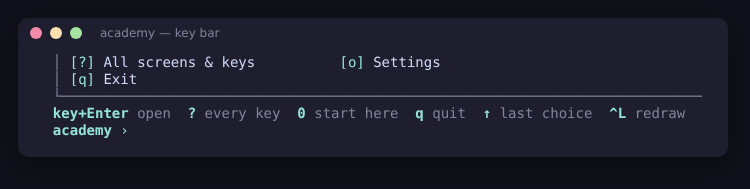
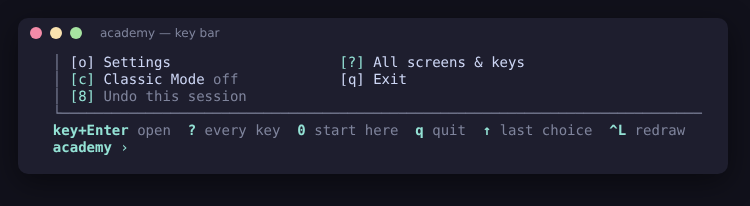
Show everything on the home screen; remove Tidy screen
The home screen now opens with the full dashboard and every screen, as
the detailed home did. The short home stays available as Settings ->
Home screen: simple (Settings.SimpleHome; the old detailed_home value is
no longer read, so everyone starts with the full view).

Tidy screen is gone: the t key, its menu item, its setting and the
screen clear before each action. Old progress files that still carry
tidy_screen load as before (unknown fields are ignored).

README, CHANGELOG (Unreleased) and the menu, settings and key-bar
screenshots are updated.

Claude-Session: https://claude.ai/code/session_01PeHC9mGDMKHVeqdMKqCduv

diff --git a/academy/app.go b/academy/app.go
@@ -277,15 +277,11 @@ func (a *App) reviewLabel(short bool) string {
 // "All screens & keys" page of the simple home.
 func (a *App) allScreens() []menuGroup {
 	a.mu.Lock()
-	classic, tidy := a.reg.ClassicMode, a.reg.TidyScreen
+	classic := a.reg.ClassicMode
 	a.mu.Unlock()
 	mode := sty.Gray("off")
 	if classic {
 		mode = sty.Bold(sty.Yellow("ON"))
-	}
-	tidyMode := sty.Gray("off")
-	if tidy {
-		tidyMode = sty.Bold(sty.Green("on"))
 	}
 	item, hint := menuItem, menuHint
 	return []menuGroup{
@@ -323,7 +319,6 @@ func (a *App) allScreens() []menuGroup {
 			{item("o", "Settings"), hint("theme, symbols, home screen"), "Settings"},
 			{item("?", "All screens & keys"), "", "All keys"},
 			{item("c", "Classic Mode "+mode), "", "Classic " + stripANSI(mode)},
-			{item("t", "Tidy screen "+tidyMode), "", "Tidy " + stripANSI(tidyMode)},
 			{item("q", "Exit"), hint("progress saves itself; 5 works too"), "Exit"},
 			{item("8", sty.Gray("Undo this session")), "", "Undo session"},
 		}},
@@ -361,19 +356,20 @@ func (a *App) simpleMenu() []menuGroup {
 	}
 }
 
-// printMenu draws the home screen: simple by default, detailed when the
-// learner chose it in Settings.
+// printMenu draws the home screen: everything by default (the full
+// dashboard and every screen), or the short home if the learner chose it
+// in Settings.
 func (a *App) printMenu() {
 	a.mu.Lock()
-	detailed := a.reg.Settings.DetailedHome
+	simple := a.reg.Settings.SimpleHome
 	a.mu.Unlock()
-	if detailed {
-		a.printDashboard()
-		a.renderMenu("MAIN MENU", a.allScreens())
+	if simple {
+		a.printHome()
+		a.renderMenu("MENU", a.simpleMenu())
 		return
 	}
-	a.printHome()
-	a.renderMenu("MENU", a.simpleMenu())
+	a.printDashboard()
+	a.renderMenu("MAIN MENU", a.allScreens())
 }
 
 // printHome is the simple dashboard: three numbers, where you are, and
@@ -1168,15 +1164,6 @@ func (a *App) run() {
 		a.con.setOnClear(a.printMenu) // Ctrl+L and resizes redraw the menu on a clean screen
 		choice, err := a.con.readLineKeys(sty.Bold(sty.Cyan("  academy"))+sty.Cyan(" › "), menuBar)
 		a.con.setOnClear(nil)
-
-		// Tidy screen: each chosen action starts on a clean screen, and its
-		// output (including its final message) stays visible above the menu.
-		a.mu.Lock()
-		tidy := a.reg.TidyScreen
-		a.mu.Unlock()
-		if tidy && a.con.screen && choice != "" {
-			fmt.Fprint(a.con.out, clearSeq)
-		}
 		if err != nil {
 			a.con.note("Input closed — saving.")
 			a.commitAndExit()
@@ -1193,16 +1180,6 @@ func (a *App) run() {
 		case "clear", "cls":
 			if a.con.screen {
 				fmt.Fprint(a.con.out, clearSeq)
-			}
-		case "t":
-			a.mutate(func(r *Registry) { r.TidyScreen = !r.TidyScreen })
-			a.mu.Lock()
-			on := a.reg.TidyScreen
-			a.mu.Unlock()
-			if on {
-				a.con.ok("Tidy screen on: every action now starts on a clean screen. Press t again to turn it off.")
-			} else {
-				a.con.ok("Tidy screen off: earlier output stays visible above the menu.")
 			}
 		case "?", "h", "help":
 			a.pagedHome(a.showShortcuts)

diff --git a/academy/home_test.go b/academy/home_test.go
@@ -15,37 +15,45 @@ func renderHome(t *testing.T, r *Registry, cols int) string {
 	return stripANSI(out.String())
 }
 
-// The simple home shows three numbers, where you are and a short menu;
-// the guide stays in sight for new learners; Settings brings back the
-// detailed dashboard and every menu item.
+// The home screen shows everything by default: the full dashboard and
+// every screen. Settings offers the simple home, which shows three
+// numbers, where you are and a short menu, with the guide in sight for
+// new learners.
 func TestHomeScreens(t *testing.T) {
-	newbie := renderHome(t, seedRegistry(), 80)
+	for _, r := range []*Registry{seedRegistry(), demoRegistry(time.Now())} {
+		home := renderHome(t, r, 80)
+		for _, want := range []string{"MAIN MENU", "[0] Start Here", "[w] Tech watch", "[8] Undo this session", "[q] Exit", "Campus"} {
+			if !strings.Contains(home, want) {
+				t.Errorf("the default home lacks %q:\n%s", want, home)
+			}
+		}
+		if strings.Contains(home, "Tidy") || strings.Contains(home, "[t]") {
+			t.Errorf("Tidy screen is gone, but the home still offers it:\n%s", home)
+		}
+	}
+
+	newbie := seedRegistry()
+	newbie.Settings.SimpleHome = true
+	simpleNew := renderHome(t, newbie, 80)
 	for _, want := range []string{"No streak yet", "Today 0 min", "Nothing due", "[j] Today's workout", "[0] Start Here", "[?] All screens & keys", "[q] Exit"} {
-		if !strings.Contains(newbie, want) {
-			t.Errorf("simple home for a new learner lacks %q:\n%s", want, newbie)
+		if !strings.Contains(simpleNew, want) {
+			t.Errorf("simple home for a new learner lacks %q:\n%s", want, simpleNew)
 		}
 	}
 	for _, hidden := range []string{"[w]", "[2]", "[8]", "Labs", "MAIN MENU"} {
-		if strings.Contains(newbie, hidden) {
+		if strings.Contains(simpleNew, hidden) {
 			t.Errorf("simple home shows %q, which belongs to All screens", hidden)
 		}
 	}
 
 	learner := demoRegistry(time.Now())
+	learner.Settings.SimpleHome = true
 	simple := renderHome(t, learner, 80)
 	if strings.Contains(simple, "[0] Start Here") {
 		t.Error("Start Here leaves the short menu once a few concepts are understood")
 	}
 	if !strings.Contains(simple, "cards due") || !strings.Contains(simple, "Now Stage") {
 		t.Errorf("simple home lacks the due count or the current stage:\n%s", simple)
-	}
-
-	learner.Settings.DetailedHome = true
-	detailed := renderHome(t, learner, 80)
-	for _, want := range []string{"MAIN MENU", "[w] Tech watch", "[8] Undo this session", "Campus"} {
-		if !strings.Contains(detailed, want) {
-			t.Errorf("detailed home lacks %q", want)
-		}
 	}
 
 	for _, cols := range []int{minWidth, 60, maxWidth} {

diff --git a/academy/settings.go b/academy/settings.go
@@ -85,7 +85,7 @@ func (a *App) settingsScreen() error {
 	for {
 		a.mu.Lock()
 		st := a.reg.Settings
-		classic, tidy := a.reg.ClassicMode, a.reg.TidyScreen
+		classic := a.reg.ClassicMode
 		a.mu.Unlock()
 		onOff := func(b bool) string {
 			if b {
@@ -99,9 +99,9 @@ func (a *App) settingsScreen() error {
 				themeName = t.Name
 			}
 		}
-		homeName := "simple"
-		if st.DetailedHome {
-			homeName = "detailed"
+		homeName := "everything"
+		if st.SimpleHome {
+			homeName = "simple"
 		}
 		symbols := "emoji 💡"
 		if st.PlainSymbols {
@@ -113,12 +113,11 @@ func (a *App) settingsScreen() error {
 			"Symbols: " + sty.Bold(symbols) + sty.Gray(" · plain if emoji look broken"),
 			"Ask how sure I am before review answers: " + onOff(!st.NoConfidence),
 			"Classic Mode: " + onOff(classic) + sty.Gray(" · struggle clock, notebook, type-ins"),
-			"Tidy screen: " + onOff(tidy) + sty.Gray(" · each action on a clean screen"),
-			"Home screen: " + sty.Bold(homeName) + sty.Gray(" · simple shows the daily essentials, detailed every menu item"),
+			"Home screen: " + sty.Bold(homeName) + sty.Gray(" · or simple: the daily essentials only"),
 			"Key bar: " + onOff(!st.HideKeyBar) + sty.Gray(" · the keys to use, above each prompt"),
 			"Back",
 		})
-		if err != nil || choice == 7 {
+		if err != nil || choice == 6 {
 			if err == errCancel {
 				return nil
 			}
@@ -141,12 +140,9 @@ func (a *App) settingsScreen() error {
 				return err
 			}
 		case 4:
-			a.mutate(func(r *Registry) { r.TidyScreen = !r.TidyScreen })
-			a.con.ok("Saved.")
-		case 5:
-			a.mutate(func(r *Registry) { r.Settings.DetailedHome = !r.Settings.DetailedHome })
+			a.mutate(func(r *Registry) { r.Settings.SimpleHome = !r.Settings.SimpleHome })
 			a.con.ok("Home screen changed. Every key works either way; ? lists them all.")
-		case 6:
+		case 5:
 			a.mutate(func(r *Registry) { r.Settings.HideKeyBar = !r.Settings.HideKeyBar })
 			a.applySettings()
 			a.con.ok("Saved. Every key still works, and ? lists them all.")

diff --git a/academy/main.go b/academy/main.go
@@ -252,7 +252,6 @@ type Registry struct {
 	Tracks        []Track               `json:"tracks"`
 	Reviews       map[string]ReviewCard `json:"reviews"`        // card ID → spaced-repetition state
 	ReviewHistory map[string]int        `json:"review_history"` // local date → cards reviewed that day
-	TidyScreen    bool                  `json:"tidy_screen"`    // start each action on a clean screen
 	StudySessions []StudySession        `json:"study_sessions"` // focus-timer sessions
 	Goals         Goals                 `json:"goals"`          // weekly targets (zero: none)
 	Achievements  map[string]time.Time  `json:"achievements"`   // achievement ID → when earned
@@ -524,7 +523,6 @@ func seedRegistry() *Registry {
 
 	return &Registry{
 		SchemaVersion:  schemaVersion,
-		TidyScreen:     true, // each action starts on a clean screen, so the scrollback stays readable
 		NextLabID:      1,
 		Reviews:        map[string]ReviewCard{},
 		ReviewHistory:  map[string]int{},

diff --git a/academy/save_test.go b/academy/save_test.go
@@ -32,13 +32,13 @@ func TestAutosaveBackupOncePerSessionAndUndo(t *testing.T) {
 		t.Fatalf("an unchanged session must not make a backup, got %d", len(backups))
 	}
 	for i := 0; i < 5; i++ {
-		a.mutate(func(r *Registry) { r.TidyScreen = !r.TidyScreen })
+		a.mutate(func(r *Registry) { r.Settings.NoConfidence = !r.Settings.NoConfidence })
 		a.autosave()
 		saved, _, err := loadRegistry(path)
 		if err != nil {
 			t.Fatal(err)
 		}
-		if saved.TidyScreen != a.reg.TidyScreen {
+		if saved.Settings.NoConfidence != a.reg.Settings.NoConfidence {
 			t.Fatalf("save %d: the change is not on disk", i)
 		}
 	}

diff --git a/academy/thinking.go b/academy/thinking.go
@@ -388,7 +388,7 @@ type Settings struct {
 	Theme        string `json:"theme,omitempty"`
 	PlainSymbols bool   `json:"plain_symbols,omitempty"` // replace emoji with plain characters
 	NoConfidence bool   `json:"no_confidence,omitempty"` // skip "how sure are you?" in reviews
-	DetailedHome bool   `json:"detailed_home,omitempty"` // the full dashboard and menu instead of the simple home
+	SimpleHome   bool   `json:"simple_home,omitempty"`   // the short home screen instead of the full dashboard and menu
 	HideKeyBar   bool   `json:"hide_key_bar,omitempty"`  // no key bar above prompts
 }
 

diff --git a/academy/tools/screenshots.py b/academy/tools/screenshots.py
@@ -37,7 +37,7 @@ def find_chrome():
 # name: (columns, keys to type, first line regex, last line regex or None,
 #        max lines[, which key's output to start from: -1 = the last])
 SHOTS = {
-    "menu": (80, [], r"Today [0-9]+ min", r"└─", 40),
+    "menu": (80, [], r"Study [0-9.]+ h", r"└─", 45),
     "stages": (80, ["6"], r"STUDY HALL", r"\[20\]", 40),
     "concept-card": (80, ["6", "1", "1", "5"], r"┏━", r"◆ Mental model", 70),
     "under-the-hood": (80, ["6", "1", "1", "6"], r"🔧 Under the hood", r"◆ Mental model", 30),

diff --git a/academy/README.md b/academy/README.md
@@ -503,11 +503,11 @@ The career center is woven into the rest of the academy:
 
 ## Menu
 
-**The home screen is simple by default.** It shows three numbers (your streak, today's study minutes, and the cards due), the stage you are working on, one call to action (today's workout, then your best next step) and a short menu of the things you do most days:
+**The home screen shows everything.** The full dashboard comes first: your streak, study hours, labs, stages, books read, concepts, exercises, mastery, campus progress, the 14-day activity line, weekly goals and the word of the day. Under it is every screen, grouped into the sections below:
 
 ![Home screen](docs/menu.png)
 
-**`?` shows every screen**, grouped into the four sections below, followed by every key; type any key on that page to go straight there. Every key works from the home screen too, whether or not it is listed. If you prefer to see everything at once, **Settings** (`o`) → *Home screen: detailed* brings back the full dashboard (study hours, labs, stages, books read, concepts, exercises, mastery, campus progress, the 14-day activity line, weekly goals and the word of the day) and the full menu. Those numbers are always in the Progress report (`p`), under *At a glance*.
+**`?` shows every screen** too, followed by every key; type any key on that page to go straight there. Every key works from the home screen. If you prefer a shorter start, **Settings** (`o`) → *Home screen: simple* shows only three numbers (your streak, today's study minutes and the cards due), the stage you are working on, one call to action (today's workout, then your best next step) and a short menu of the things you do most days. The full numbers are always in the Progress report (`p`), under *At a glance*.
 
 Keys never change, whatever the layout: wide terminals show two or three columns with hints, and narrow ones show two compact columns.
 
@@ -552,11 +552,10 @@ Keys never change, whatever the layout: wide terminals show two or three columns
 
 | Key | Action |
 |---|--------|
-| o | **Settings**: colour theme (default, high contrast, colour-blind friendly, monochrome), plain symbols instead of emoji, confidence ratings, Classic Mode, tidy screen, simple or detailed home screen |
+| o | **Settings**: colour theme (default, high contrast, colour-blind friendly, monochrome), plain symbols instead of emoji, confidence ratings, Classic Mode, the key bar, full or simple home screen |
 | q | **Exit** (also `5`, `quit` or `exit`). Your progress is saved automatically after every action, so closing the window is fine too |
 | 8 | **Undo this session**: puts your progress back exactly as it was when you opened the academy, then exits (asks first) |
 | c | **Classic Mode** on/off: struggle clock, lab notebook, classic corners and type-ins |
-| t | **Tidy screen** on/off: every action starts on a clean screen, so the scrollback stays readable (on by default for new learners) |
 | ? | **All screens & keys** (also `h` or `help`): every screen, grouped, then every key; type a key on that page to go there · `clear` / `cls` clears the screen |
 
 Above the menu, a dashboard shows hours, labs, stages, texts, concepts, exercises, **mastered concepts** and **cards due for review**, plus mastery-weighted campus progress, a 14-day activity sparkline, and a study streak (logged hours, focus sessions and review days all count). If you have set weekly goals, a **This week** line tracks them. Below it, a **➜ Next** line names your best next step; press `n` to start it.

diff --git a/academy/CHANGELOG.md b/academy/CHANGELOG.md
@@ -4,6 +4,14 @@ All notable changes to the Systems & AI Academy are listed here. The
 format follows [Keep a Changelog](https://keepachangelog.com/en/1.1.0/), and
 versions follow [Semantic Versioning](https://semver.org/).
 
+## [Unreleased]
+
+### Changed
+- **The home screen shows everything when you open the academy:** the full dashboard and every screen, grouped. The short home is still there for anyone who prefers it: Settings → *Home screen: simple*.
+
+### Removed
+- **Tidy screen** (the `t` key and its setting). Actions no longer clear the screen first, so what you did stays visible above the menu, and Ctrl+L or `clear` clears it whenever you like. Old progress files that still have the setting load as before.
+
 ## [1.9.1] - 2026-10-25
 
 ### Added
